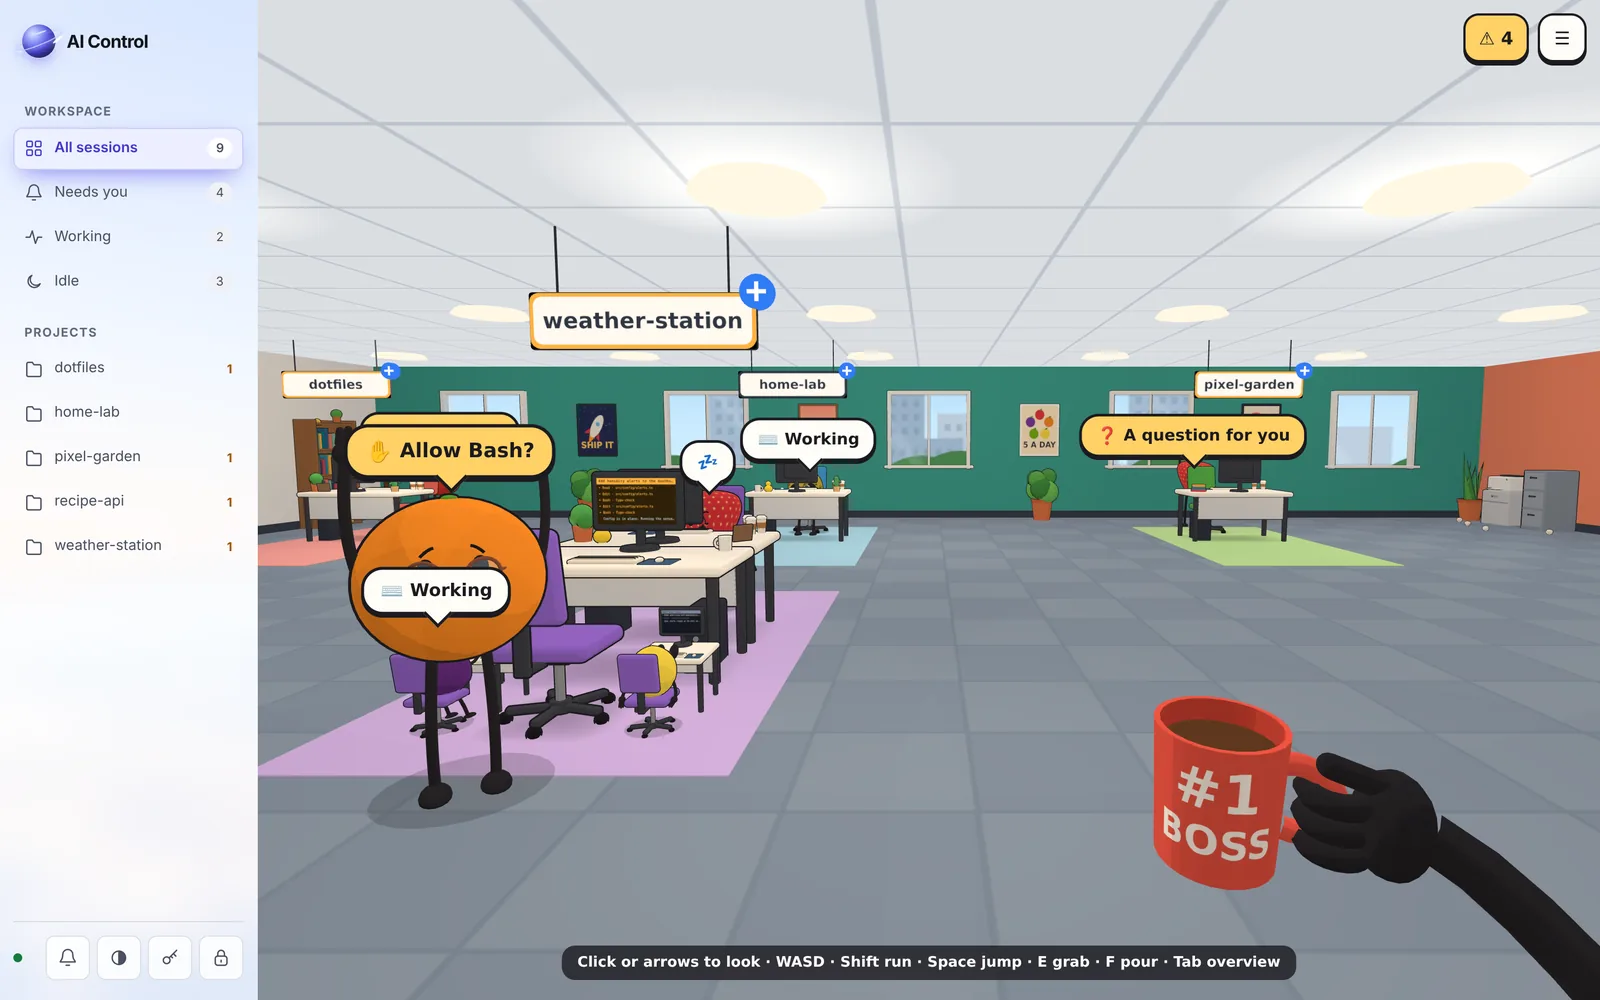
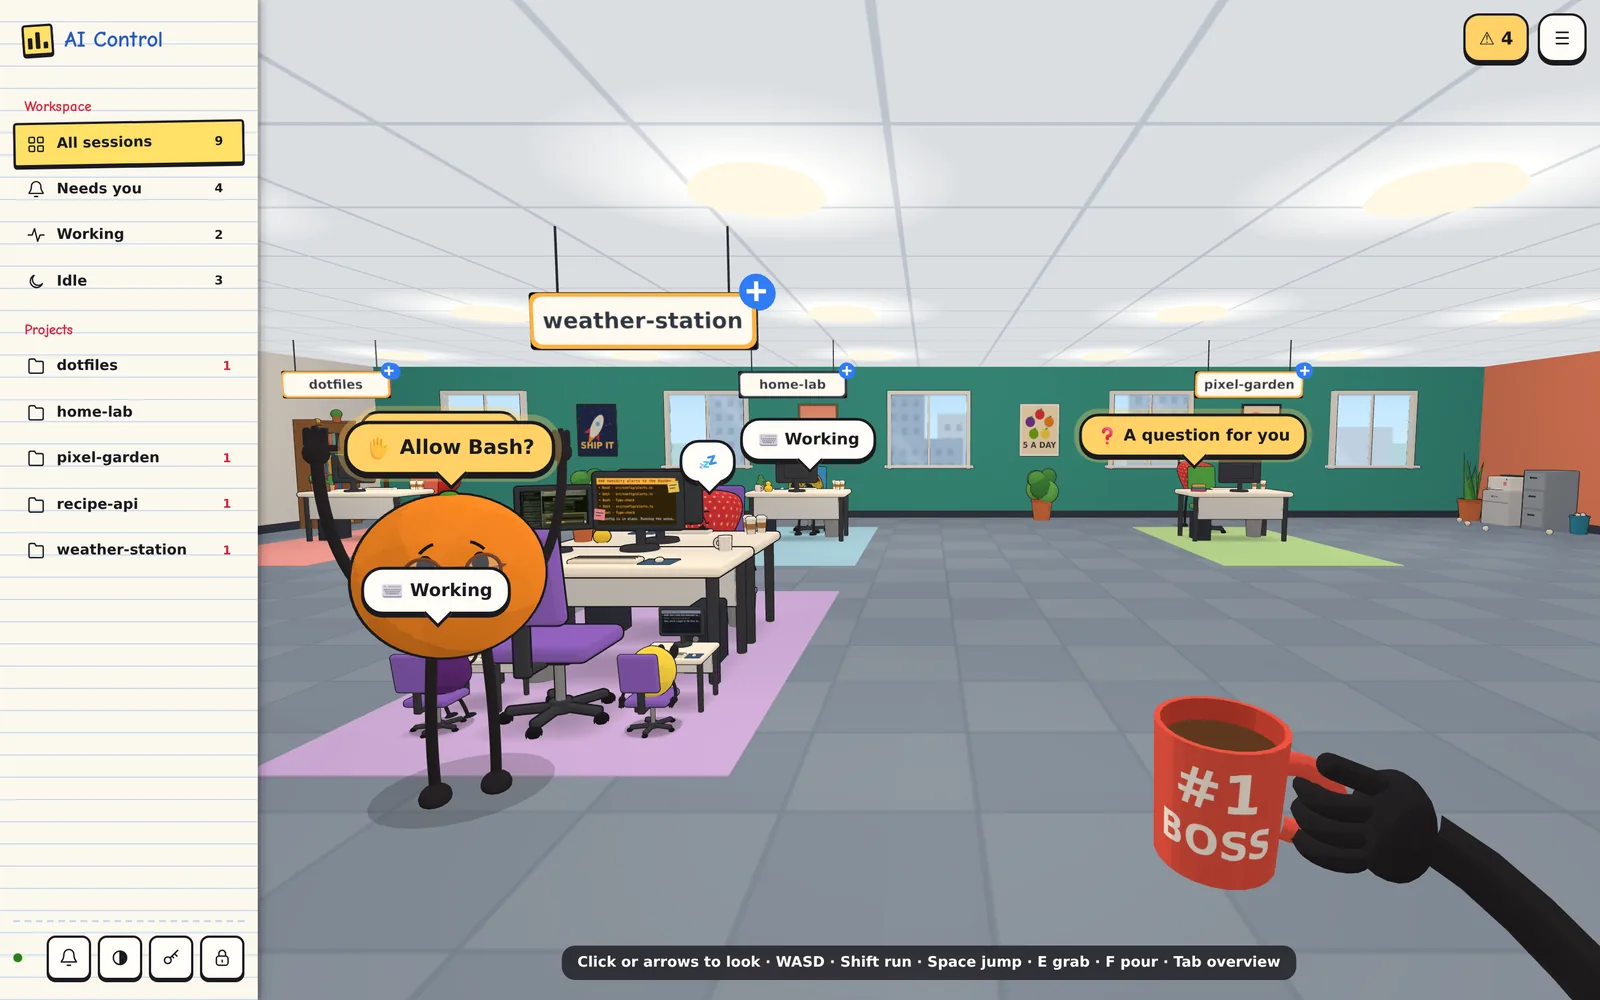
README: the Office screenshots show the paper chrome. First person, the overview and the phone are retaken from the demo (an afternoon sky, so the windows aren't dark), and a second Office row adds the ☰ list as notes and post-its on a corkboard and a permission request on a post-it in the panel. Th

diff --git a/README.md b/README.md
@@ -22,7 +22,7 @@ A self-hosted dashboard for keeping track of your local Codex and Claude Code se
 
 MU/TH/UR, EVA and Office go all in. The first two bring boot sequences, CRT scanlines, typed-out text, radar contacts that blip on status changes and close in the longer they wait, emergency lighting, hazard stripes, build bars fed by plan progress and a power bar fed by your usage limits that drops the radar to static when spent. Orbit is the calm option. Effects never block a control and switch off with reduced motion.
 
-Office swaps the list for a toon-shaded 3D office: every session is a fruit at a desk, sleeping when idle and waving when it needs you, with speech bubbles, its latest lines on the monitor and usage on the whiteboard. Walk around in first person (WASD, Shift to run, Space to jump; click to capture the mouse, or use the arrow keys, to look), Tab for the overview, and click someone to fly over and open their session.
+Office swaps the list for a toon-shaded 3D office: every session is a fruit at a desk, sleeping when idle and waving when it needs you, with speech bubbles, its latest lines on the monitor and usage on the whiteboard. Walk around in first person (WASD, Shift to run, Space to jump; click to capture the mouse, or use the arrow keys, to look), Tab for the overview, and click someone to fly over and open their session. ☰ swaps back to the list, as notes and post-its on a corkboard.
 
 ## Screenshots
 
@@ -34,6 +34,7 @@ Office swaps the list for a toon-shaded 3D office: every session is a fruit at a
 | Office | Office overview |
 | --- | --- |
 | ![Office: first person among the fruit sessions](docs/screenshots/office-first-person.webp) | ![Office: overview of the whole room](docs/screenshots/office-overview.webp) |
+| ![Office list: sessions as taped notes and post-its on a corkboard](docs/screenshots/office-list.webp) | ![Office: Claude permission request on a post-it](docs/screenshots/office-permission.webp) |
 
 | Orbit dark | First visit |
 | --- | --- |
